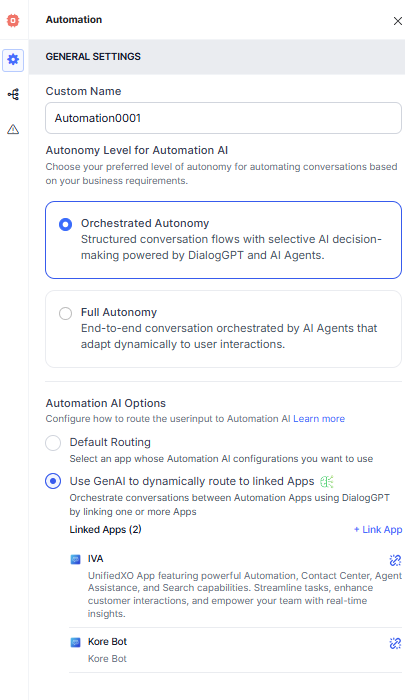
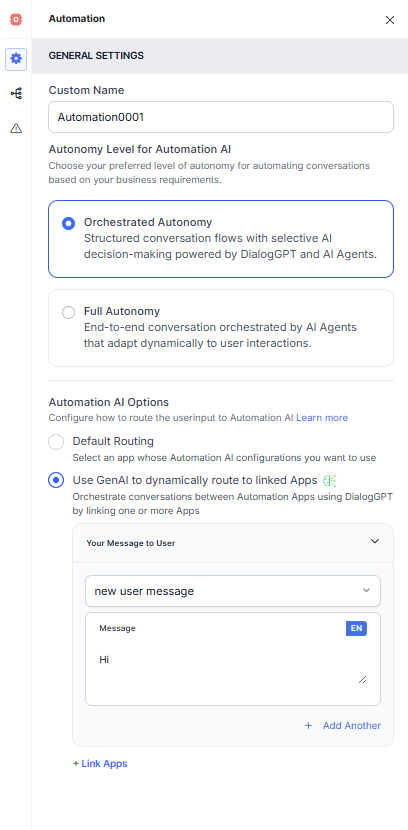
genai

diff --git a/docs/xo/generative-ai-tools/genai-features-contactcenterai.md b/docs/xo/generative-ai-tools/genai-features-contactcenterai.md
@@ -1,0 +1,104 @@
+
+# Generative AI Features - Contact Center AI
+
+
+
+Utilize generative AI features to supercharge your AI Agent with powerful tools that enhance productivity, enable natural conversations, improve intent detection, analyze customer sentiment, and support agent performance, all working together to create seamless end-user experiences through intuitive design.
+
+### Model Feature Matrix
+
+The following table displays the features and the supported models.
+
+(✅ Supported | ❌ Not supported)
+
+| Feature                                                                 | Azure OpenAI Model(s) | OpenAI Model(s)                        | Custom LLM | XO GPT |
+|-------------------------------------------------------------------------|------------------------|----------------------------------------|------------|--------|
+| Agent Empathy Identification                                           | GPT-4o                 | GPT-4o and GPT-4o mini                 | ✅         | ❌     |
+| Agent Response Rephrasing                                              | ❌                    | GPT-3.5 Turbo                          | ❌         | ❌     |
+| By Value Adherence validation for Quality AI                           | GPT-4o                 | GPT-4o and GPT-4o mini                 | ✅         | ❌     |
+| By Value metric extraction for Quality AI                              | GPT-4o                 | GPT-4o and GPT-4o mini                 | ✅         | ❌     |
+| Churn & Escalation Identification                                      | GPT-4o                 | GPT-4o and GPT-4o mini                 | ✅         | ❌     |
+| Conversation Summary                                                   | ❌                    | ❌                                     | ✅         | ✅     |
+| Crutch Word Usage Detection                                            | GPT-4o                 | GPT-4o                                 | ✅         | ❌     |
+| Default Script Adherence                                               | GPT-4o                 | GPT-4o and GPT-4o mini                 | ✅         | ❌     |
+| GenAI based agent answer adherence and customer trigger detection      | GPT-4o                 | GPT-4o and GPT-4o mini                 | ✅         | ❌     |
+| Generating Similar QM Utterance Suggestions                            | GPT-4                  | GPT-3.5, GPT-4o and GPT-4o mini        | ❌         | ❌     |
+| Post-Interaction Sentiment Analytics and Key Emotion Moments           | GPT-4o                 | GPT-4o and GPT-4o mini                 | ✅         | ❌     |
+| Sentiment Analysis                                                     | GPT-4o                 | GPT-4o and GPT-4o mini                 | ✅         | ❌     |
+| Topic Modelling                                                        | GPT-4o                 | GPT-4o and GPT-4o mini                 | ✅         | ❌     |
+
+
+
+
+### Agent Empathy Identification
+
+Identify instances of agent empathy where customers have expressed negative sentiment through Quality AI using LLMs. 
+
+
+### Agent Response Rephrasing
+
+Agents will be able to choose the LLM to rephrase their responses in the following tones.
+
+
+
+* **Formalize**: Enables agents to enhance the formality of their writing, making it suitable for business or other formal contexts.
+* **Friendly**: Offers suggestions and improvements to promote a friendly and approachable tone in text.
+* **Expand**: Enables agents to enhance the formality of their writing, making it suitable for business or any other formal setting.
+* **Rephrase**: Allows agents to elevate the formality of their writing, making it suitable for business or any other formal context.
+
+
+
+
+### By Value Adherence validation for Quality AI
+
+Validates data adherence by comparing extracted metric values against reference data using multilingual LLM analysis. Performs precise value matching and returns binary adherence scores for each metric.
+
+
+### By Value metric extraction for Quality AI
+
+Extract by value metric from user/agent/bot messages through Quality AI using LLMs.
+
+
+### Churn & Escalation Identification
+
+Utilize LLMs to identify agent crutch word usage in customer conversations using Quality AI.
+
+
+### Conversation Summary
+
+Generate LLM-based summaries of conversations that have transpired up to that moment. This can be triggered upon arrival at a conversation with an agent, transfer of conversation between agents, and at the wrap-up of a conversation, providing comprehensive wrap-up summaries.
+
+
+### Crutch Word Usage Detection
+
+Use LLMs to detect agent crutch word usage in customer conversations through Quality AI.
+
+
+### Default Script Adherence
+
+Determine agent adherence to default script steps across greeting, branding, privacy policy, customer verification, hold etiquette, and call closing through Quality AI's conversation Intelligence dashboard using LLMs. [Learn more](../quality-management/analyze/conversation-intelligence.md#script-and-playbook-adherence).
+
+
+### GenAI-based agent answer adherence and customer trigger detection
+
+Utilize LLMs to verify agent adherence and detect customer triggers without requiring configuration of utterances or training. [Learn more](../quality-management/configure/evaluation-metrics.md).
+
+
+### Generating Similar QM Utterance Suggestions
+
+Utilize LLM models to generate similar phrases during the design phase, focusing on semantic similarity. [Learn more](../quality-management/configure/evaluation-metrics.md).
+
+
+### Post-Interaction Sentiment Analytics and Key Emotion Moments
+
+Generate post-interaction sentiment and emotion moment insights for agent conversations from Quality AI using LLMs.
+
+
+### Sentiment Analysis
+
+Agents will be able to monitor customer sentiment dynamically during active chat conversations. When enabled, this feature displays a sentiment indicator that updates in real-time based on ongoing analysis of the conversation.
+
+
+### Topic Modelling
+
+Extract popular Topics and Intents that customers discuss across agent conversations through Quality AI using LLMs

diff --git a/docs/xo/generative-ai-tools/genai-features-agentai.md b/docs/xo/generative-ai-tools/genai-features-agentai.md
@@ -4,34 +4,44 @@ Utilize generative AI features to supercharge your AI Agent with powerful tools 
 
 ## Model Feature Matrix
 
-The following table displays the features and the supported models. 
+The following table displays the features and the supportecd models. 
 
 (✅ Supported | ❌ Not supported)
 
 
-|Model|Agent Response Rephrasing|Generating Opposite Utterance Suggestions|Generating Similar Utterance Suggestions|
-|:----:|:----:|:----:|:----:|
-|Azure OpenAI – GPT 3.5 Turbo|❌|✅|✅|
-|OpenAI – GPT 3.5 Turbo|✅| ✅|✅|
-|OpenAI – <br>GPT 4, GPT 4 Turbo, and GPT 4o|❌|✅|✅|
+| Feature    | Azure OpenAI Models | OpenAI Models  | Custom LLM | XO GPT |
+|---------|------------|-------------|------------|--------|
+| Agent Coaching                         | GPT-4o                 | GPT-4o and GPT-4o mini                                                       | ✅         | ❌     |
+| Conversation Summary                   | ❌                    | ❌                                                                           | ✅         | ✅     |
+| Generating Opposite Utterance Suggestions | GPT-3.5 Turbo          | GPT-3.5 Turbo, GPT-4, GPT-4 Turbo, GPT-4o and GPT-4o mini                    | ✅         | ❌     |
+| Generating Similar Answer Suggestions  | ❌                    | GPT-3.5 Turbo, GPT-4, and GPT-4o mini                                       | ❌         | ❌     |
+| Generating Similar Utterance Suggestions | GPT-3.5 Turbo          | GPT-3.5 Turbo, GPT-4, GPT-4 Turbo, GPT-4o and GPT-4o mini                    | ✅         | ❌     |
+| Sentiment Analysis                     | GPT-4o                 | GPT-4o and GPT-4o mini                                                       | ✅         | ❌     |
 
 
-## Agent Response Rephrasing
-Agents will be able to choose the LLM to rephrase their responses in the following tones.
 
-* **Formalize**: Allows agents to elevate the formality of their writing, making it suitable for business or any other formal contexts.
-* **Friendly**: Offers suggestions and improvements to promote a friendly and approachable tone in text.
-* **Expand**: Allows agents to elevate the formality of their writing, making it suitable for business or any other formal contexts.
-* **Rephrase**: Allows agents to elevate the formality of their writing, making it suitable for business or any other formal contexts.
+## Agent Coaching
 
+Generate agent best responses based on the conversation history and current message to support agent coaching. [Learn more](../agentai/agent-experience/agent-realtime-coaching.md).
+
+
+## Conversation Summary
+
+Generate LLM-based summaries of conversations that have transpired up to that moment. This can be triggered upon arrival of conversation with an agent, transfer of conversation between agents, and at wrap-up of conversation, providing comprehensive wrap-up summaries.
 
 ## Generating Opposite Utterance Suggestions
+
 Use LLM models for generating opposite utterances during design time.
 
 ## Generating Similar Answer Suggestions
+
 Use LLM models for generating similar answers during design time based on semantic similarity.
 
 ## Generating Similar Utterance Suggestions
+
 Use LLM models for generating similar utterances during design time based on semantic similarity.
 
 
+## Sentiment Analysis
+
+Agents will be able to monitor customer sentiment dynamically during active chat conversations. When enabled, this feature displays a sentiment indicator that updates in real-time based on ongoing conversation analysis.

diff --git a/docs/xo/generative-ai-tools/genai-features-automationai.md b/docs/xo/generative-ai-tools/genai-features-automationai.md
@@ -12,8 +12,8 @@ The following table displays the features and the supported models.
 
     |Model|Agent Node|Prompt Node|Repeat Responses|Rephrase Responses|Rephrase User Query#|Zero-shot ML Model|
     |:----:|:----:|:----:|:----:|:----:|:----:|:----:|
-    |Azure OpenAI–<br>GPT 4 Turbo, GPT 4o, and GPT-4o mini*|✅|✅|❌|✅|✅|✅|
-    |OpenAI–<br>GPT 3.5 Turbo, GPT 4, GPT 4 Turbo, GPT 4o, and GPT-4o mini*|✅|✅|✅|✅|✅|✅^|
+    |Azure OpenAI–<br>GPT-4 Turbo, GPT-4o, and GPT-4o mini*|✅|✅|❌|✅|✅|✅|
+    |OpenAI–<br>GPT-3.5 Turbo, GPT-4, GPT-4 Turbo, GPT-4o, and GPT-4o mini*|✅|✅|✅|✅|✅|✅^|
     |Provider's New LLM**|✅|✅|❌|✅|✅|✅|
     |Custom LLM|✅|✅|❌|✅|✅|✅|
     |Amazon Bedrock|✅|✅|❌|✅|❌|❌|
@@ -24,15 +24,15 @@ The following table displays the features and the supported models.
 
     |Models|Automatic Dialog Generation|Conversation Test Case Suggestions|Conversation Summary|NLP Batch Test Case Suggestions|Training Utterance Suggestions|
     |:----:|:----:|:----:|:----:|:----:|:----:|
-    |Azure OpenAI–<br>GPT 4 Turbo, GPT 4o, and GPT-4o mini*|✅|✅|❌|✅|✅|
-    |OpenAI–<br>GPT 3.5 Turbo, GPT 4, GPT 4 Turbo, GPT 4o, and GPT-4o mini* |✅|✅|❌|✅|✅|
+    |Azure OpenAI–<br>GPT-4 Turbo, GPT-4o, and GPT-4o mini*|✅|✅|❌|✅|✅|
+    |OpenAI–<br>GPT-3.5 Turbo, GPT-4, GPT-4 Turbo, GPT-4o, and GPT-4o mini* |✅|✅|❌|✅|✅|
     |Provider's New LLM**|✅|✅|❌|✅|✅|
     |Custom LLM|✅|✅|✅|✅|✅|
     |Amazon Bedrock|✅|✅|❌|✅|✅|
     |Kore.ai XO GPT|❌|❌|✅|❌|❌|
 <hr>
 
-^ Currently, the Zero-shot ML Model doesn't support batch testing when using GPT 4.
+^ Currently, the Zero-shot ML Model doesn't support batch testing when using GPT-4.
 
 \* *The OpenAI GPT-4o mini and Azure OpenAI GPT-4o mini don't include system prompts, but they can be used with custom prompts.* 
 

diff --git a/docs/xo/generative-ai-tools/genai-features.md b/docs/xo/generative-ai-tools/genai-features.md
@@ -23,7 +23,7 @@ Steps to enable the feature:
 	
 ### Product Filter
 
-Smart filtering in the features section is based on the context from which the users access the Generative AI menu. This will only show the relevant feature options for that product (e.g., Automation, Search, Agent). The users can easily add/remove this filter as needed.  
+Smart filtering in the features section is based on the context from which the users access the Generative AI menu. This will only show the relevant feature options for that product (e.g., Automation, Search, Agent, Contact Center). The users can easily add/remove this filter as needed.  
 <img src="../images/filter-and-search.png" alt="Product Level Filter" title="Product Level Filter" style="border: 1px solid gray; zoom:70%;"> 
 	
 
@@ -139,9 +139,36 @@ Learn more about [Search AI - GenAI Features](genai-features-searchai.md).
 
 ## Agent AI - GenAI Features
 
-* Agent Response Rephrasing
+
+* Agent Coaching
+* Conversation Summary
 * Generating Opposite Utterance Suggestions
+* Generating Similar Answer Suggestions
 * Generating Similar Utterance Suggestions
+* Sentiment Analysis
 
 Learn more about [Agent AI - GenAI Features](genai-features-agentai.md).
+
+
+
+
+## Contact Center AI - GenAI Features
+
+
+
+* Agent Empathy Identification
+* Agent Response Rephrasing
+* By Value Adherence validation for Quality AI
+* By Value metric extraction for Quality AI
+* Churn & Escalation Identification
+* Conversation Summary
+* Crutch Word Usage Detection
+* Default Script Adherence
+* GenAI based agent answer adherence and customer trigger detection
+* Generating Similar QM Utterance Suggestions
+* Post-Interaction Sentiment Analytics and Key Emotion Moments
+* Sentiment Analysis
+* Topic Modelling
+
+Learn more about [Contact Center AI - GenAI Features](genai-features-contactcenterai.md).
 

diff --git a/docs/xo/automation/dynamic-routing.md b/docs/xo/automation/dynamic-routing.md
@@ -109,11 +109,16 @@ Step to set up a Dynamic Routing:
 
 2. On the Component Properties tab, select Autonomy Level as **Orchestrated Autonomy**.
 3. In the Automation AI Options section, select **Use GenAI to dynamically route to linked apps**. If DialogGPT is disabled, follow the onscreen instructions to enable it.
+3. Use the [Message Prompt](../flows/node-types/message-prompt.md) if required.
 4. Click **+Link Apps**. The available apps to link are displayed.  
-<img src="../images/ua1.png" alt="Dynamic Routing" title="Dynamic Routing" style="border: 1px solid gray; zoom:80%;"> 
+<img src="../images/link-apps.png" alt="Dynamic Routing" title="Dynamic Routing" style="border: 1px solid gray; zoom:80%;"> 
+
 5. Select the app(s) and click **Save**. The success message is displayed.
 6. To link more app, click **+Link App**. To unlink the apps, click unlink icon next to the app.  
 <img src="../images/ua3.png" alt="Dynamic Routing" title="Dynamic Routing" style="border: 1px solid gray; zoom:80%;"> 
+
+7. To unlink the app, click the unlink icon next to it.  
+<img src="../images/image3.png" alt="Dynamic Routing" title="Dynamic Routing" style="border: 1px solid gray; zoom:80%;"> 
 
 
 

diff --git a/docs/xo/flows/node-types/automation.md b/docs/xo/flows/node-types/automation.md
@@ -52,7 +52,8 @@ Select how you want to handle user conversations based on your business needs an
     1. **Run based on User Input**: Select this option to take a user input and let the virtual assistance decide what to do based on the intent recognized in the user utterance.
         * **Your Message to User**:  The message that will be displayed to the customer. Select the message type from the drop-down list and type your message. Click **+ Add Another** to add another message.
     2. **Run a Specific Dialog**: Select this option to run a specific dialog. The selected dialog will be executed when this node is triggered. Click the **Dialog** dropdown to select a dialog. 
-* **Use GenAI to dynamically route to linked apps**: To link apps, see Dynamic Routing Capability Powered by DialogGPT.
+* **Use GenAI to dynamically route to linked apps**:  Use the [Message Prompt](message-prompt.md) and [Link Apps](../../automation/dynamic-routing.md#setting-up-a-dynamic-routing).
+
 
 **Full Autonomy**: Enable Agent Platform-powered automation that independently handles entire conversation flows, adapting to situations without predefined paths.
 
